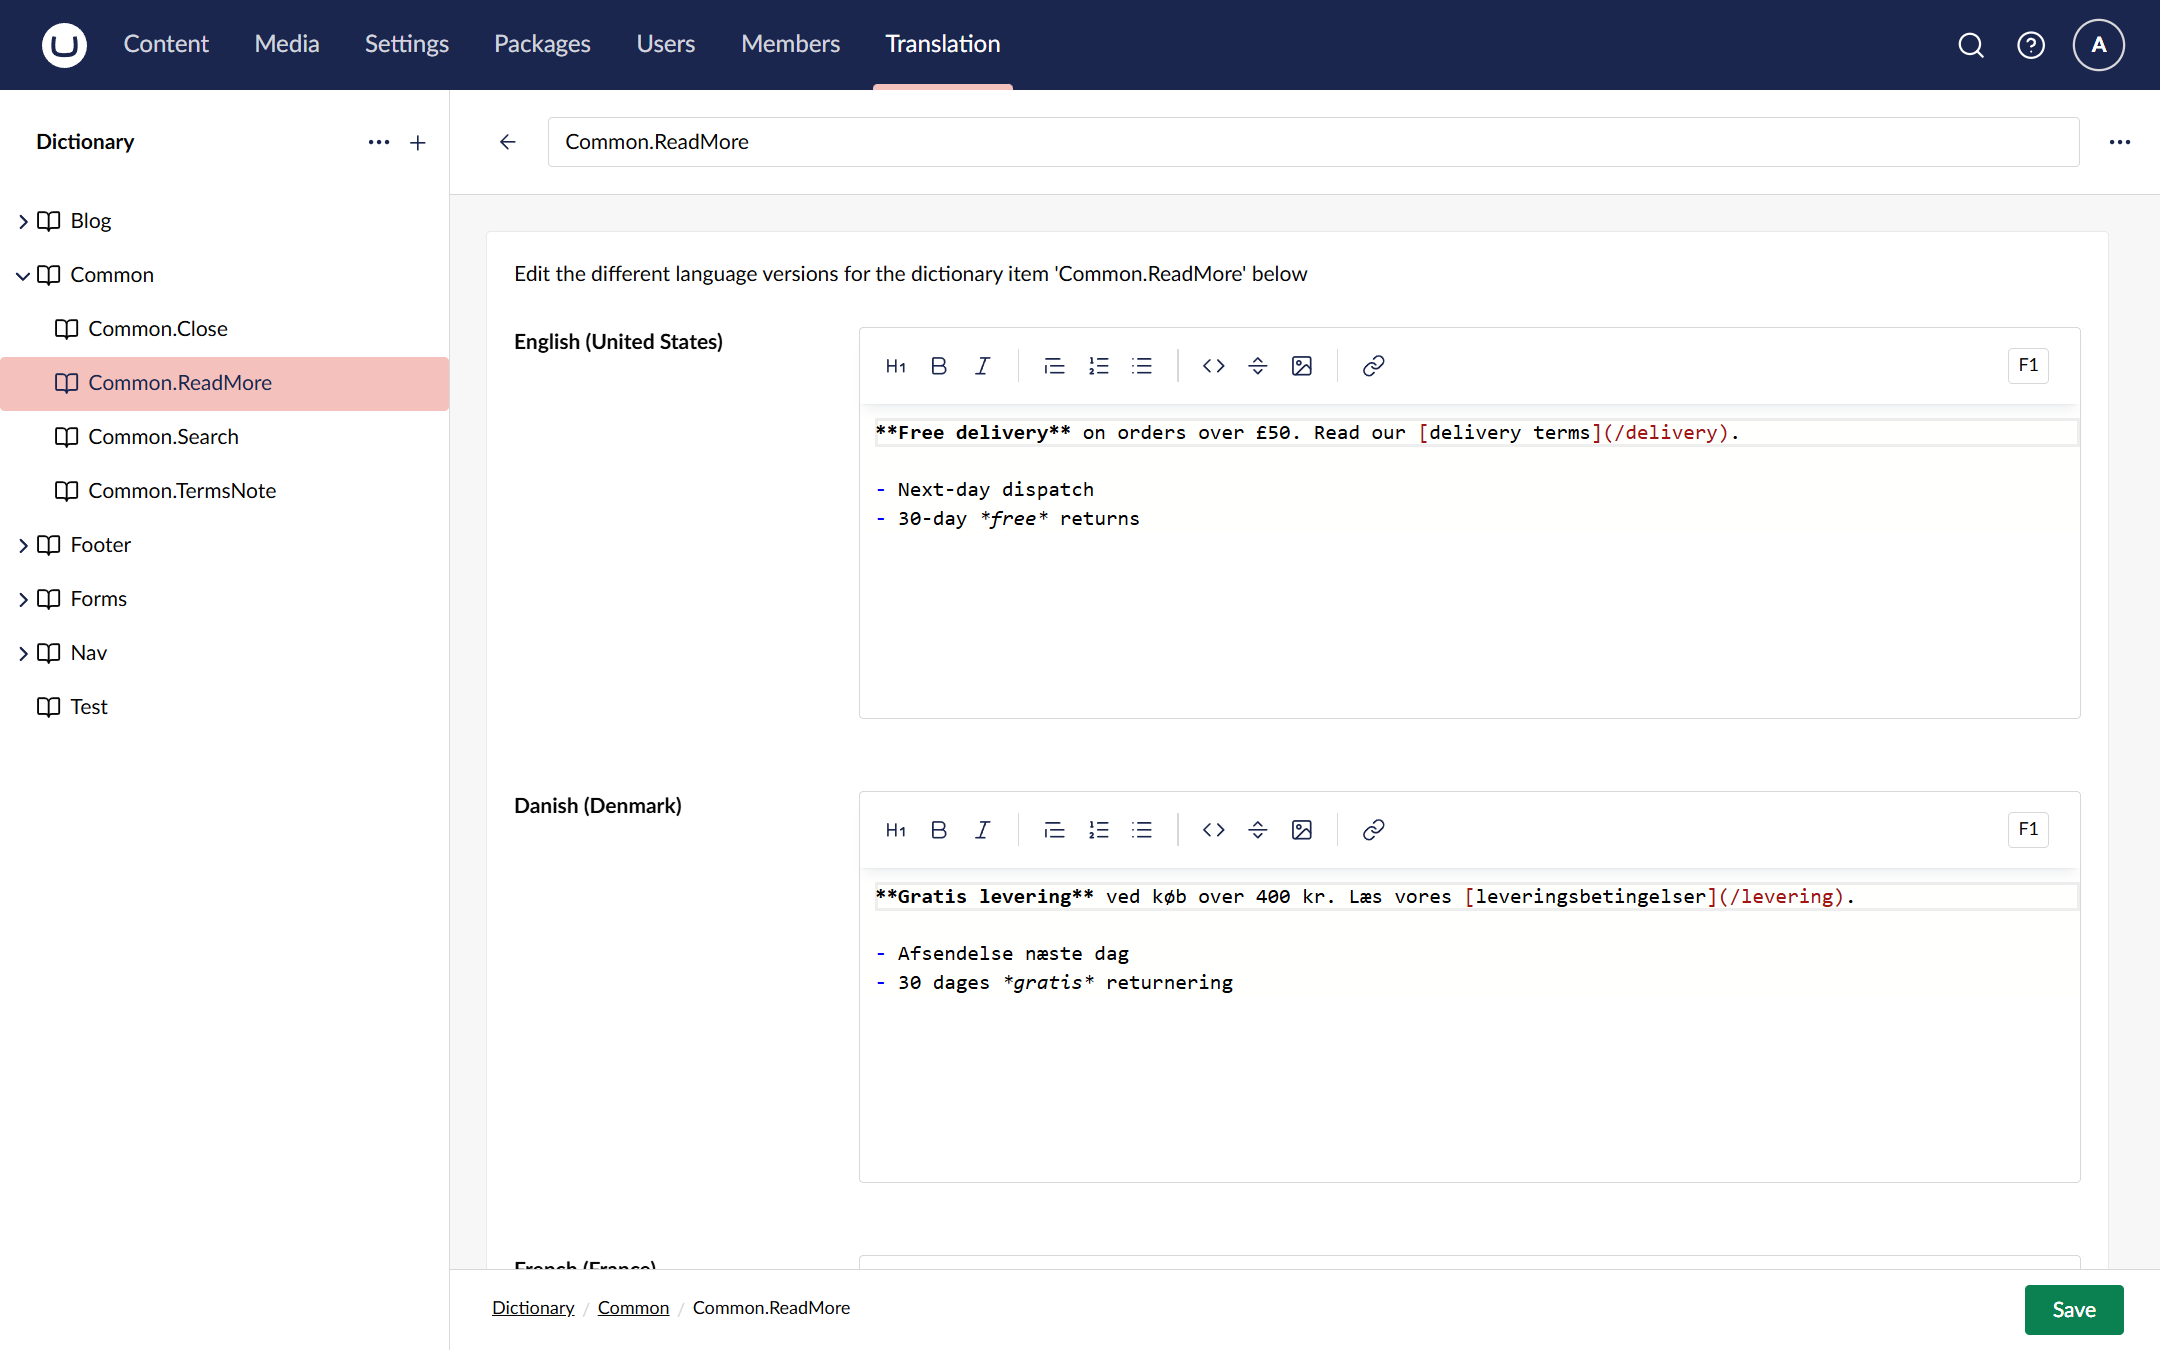
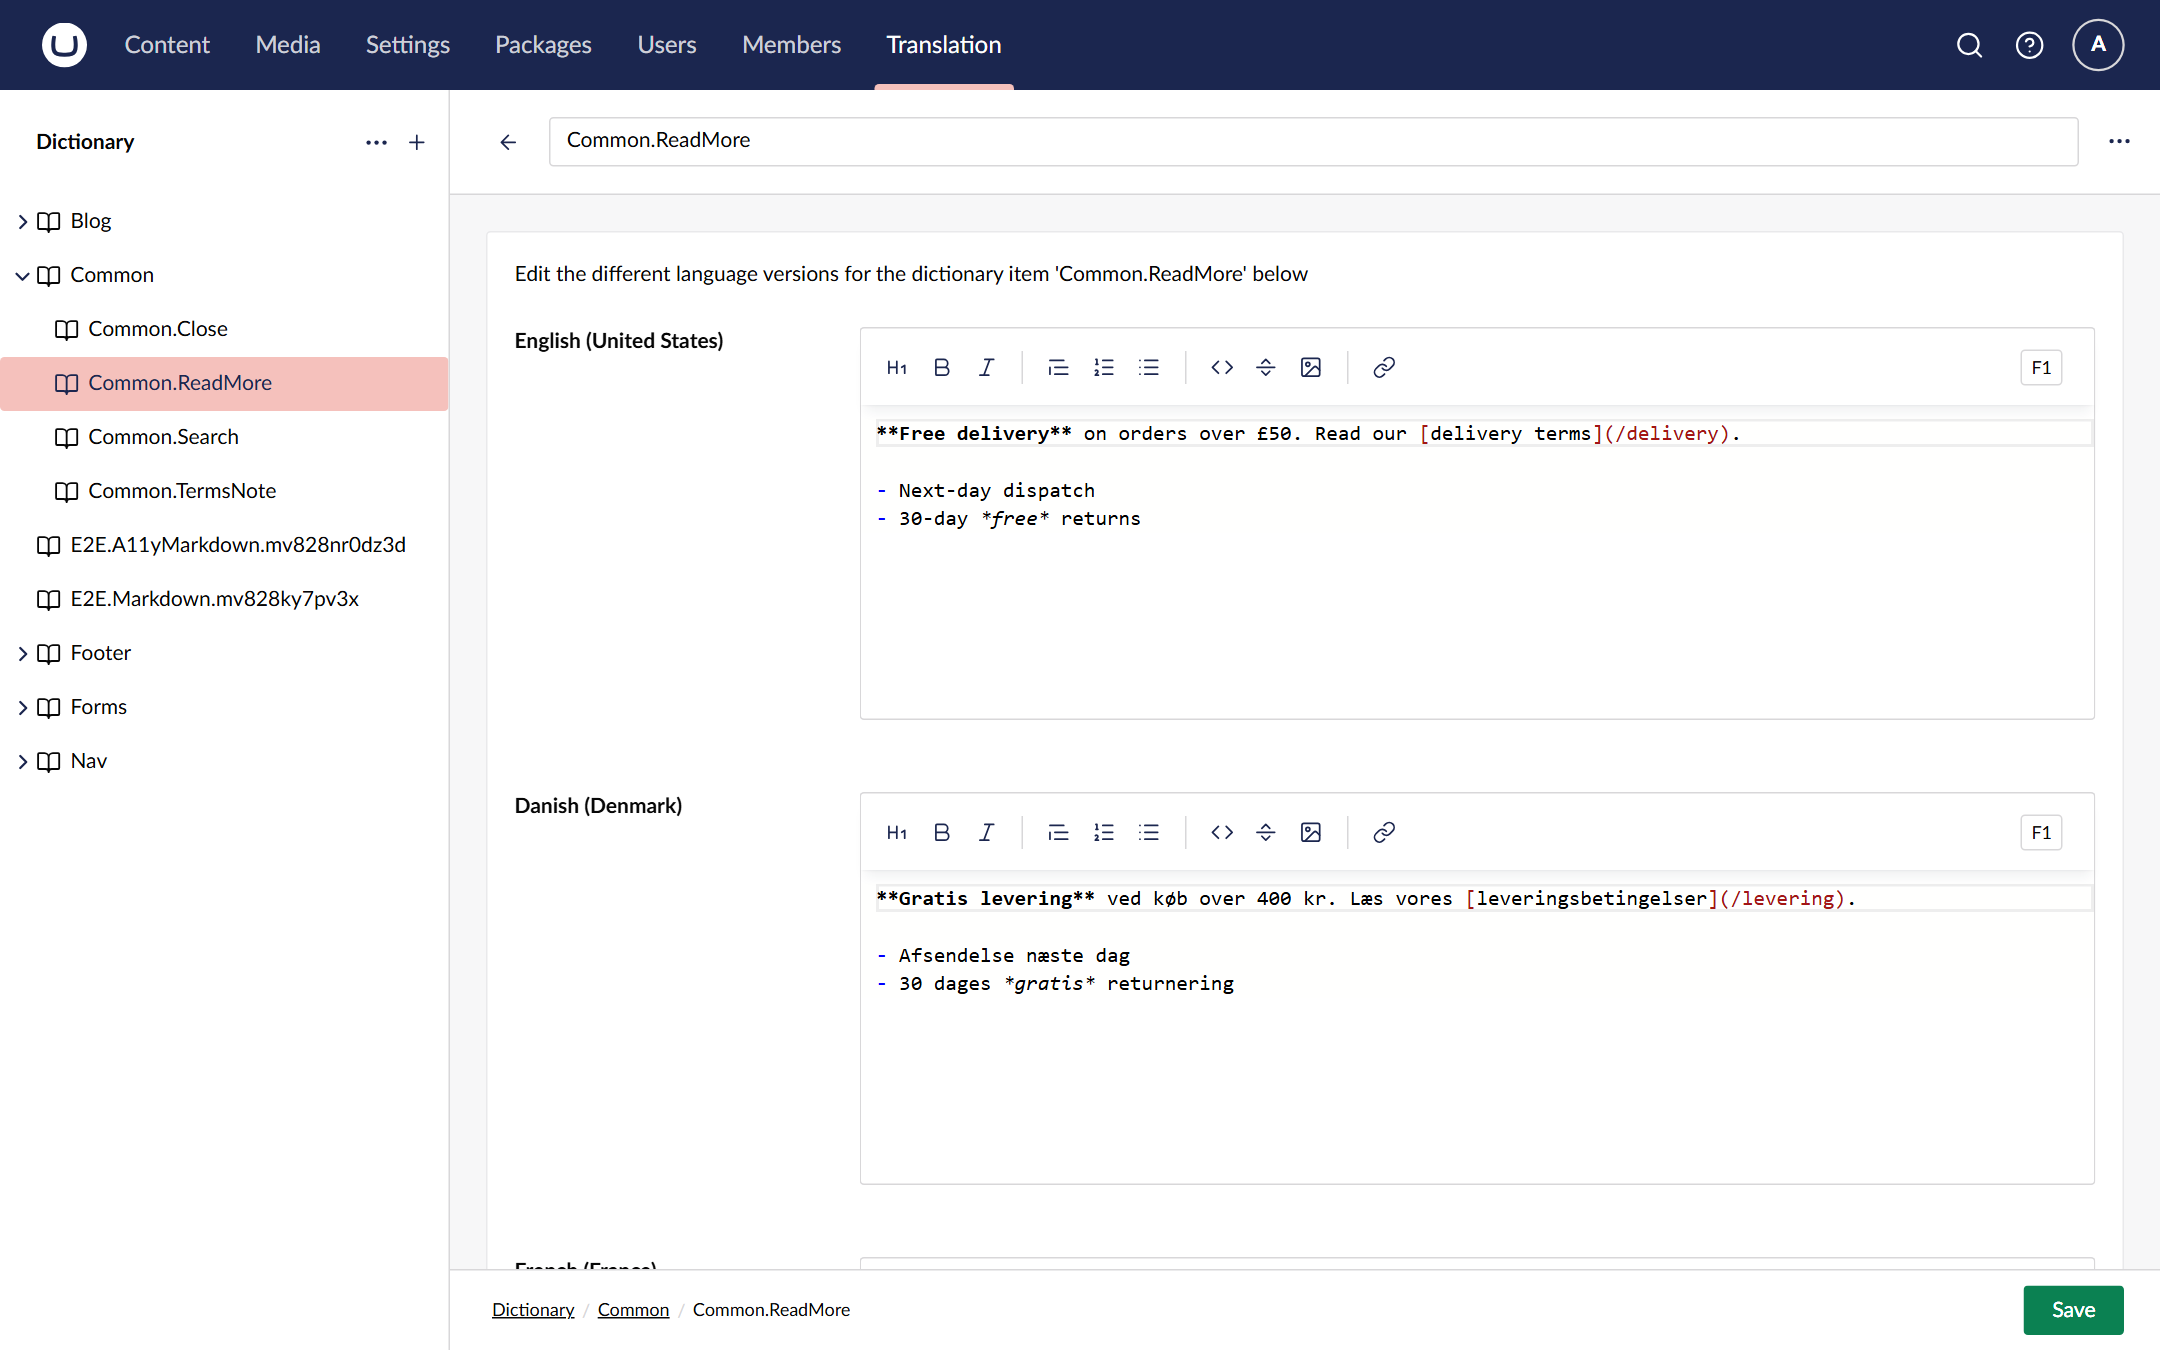
docs: take the editor screenshots with a Playwright docs config
bun run docs:screenshots seeds sample languages and dictionary items into
Site17 and retakes docs/images/editor-rte.png and editor-markdown.png.

Claude-Session: https://claude.ai/code/session_014beYQCvZw26DCSFk5nhNo4

diff --git a/src/Umbraco.Community.RichDictionary/Client/playwright.docs.config.ts b/src/Umbraco.Community.RichDictionary/Client/playwright.docs.config.ts
@@ -1,0 +1,49 @@
+import { defineConfig } from "@playwright/test";
+import { sites } from "./e2e/support/sites.js";
+import type { E2eOptions } from "./e2e/support/test.js";
+
+/**
+ * Takes the documentation screenshots in `docs/images/` (`bun run docs:screenshots`), from the
+ * Umbraco 17 sample site. It reuses a site already running on its own launch port (44440,
+ * `dotnet run` in `samples/RichDictionary.Site17`), or starts one there. The shots seed sample
+ * languages and dictionary items into that site's database (e2e/docs/screenshots.docs.ts).
+ *
+ * Signing in starts a new backoffice session for the admin, which ends any other session of that
+ * user on the site unless concurrent logins are allowed.
+ */
+const port = Number(process.env.DOCS_SITE_PORT ?? 44440);
+const site17 = sites.find((site) => site.name === "site17");
+if (!site17) throw new Error("E2E_SITES must include 17 for the documentation screenshots.");
+const site = { ...site17, port, baseURL: `https://localhost:${port}` };
+
+export default defineConfig<E2eOptions>({
+  testDir: "e2e/docs",
+  testMatch: /\.docs\.ts$/,
+  outputDir: "e2e/test-results",
+  // One worker, one session: the shots run in order and share the seeded items.
+  workers: 1,
+  timeout: 300_000,
+  expect: { timeout: 30_000 },
+  reporter: [["list"]],
+  use: {
+    ignoreHTTPSErrors: true,
+    // Scale 1.5 keeps text sharp on high-density screens at the size the README shows the shots;
+    // each shot sets its own viewport.
+    deviceScaleFactor: 1.5,
+    locale: "en-GB",
+    colorScheme: "light",
+    site,
+    baseURL: site.baseURL,
+  },
+  webServer: {
+    command: `dotnet run --no-build --no-launch-profile --urls https://localhost:${port}`,
+    cwd: site.projectDir,
+    env: { ASPNETCORE_ENVIRONMENT: "Development", RichDictionary__EditorMode: "Rte" },
+    url: `${site.baseURL}/umbraco`,
+    ignoreHTTPSErrors: true,
+    timeout: 600_000,
+    reuseExistingServer: true,
+    stdout: "ignore",
+    stderr: "pipe",
+  },
+});
